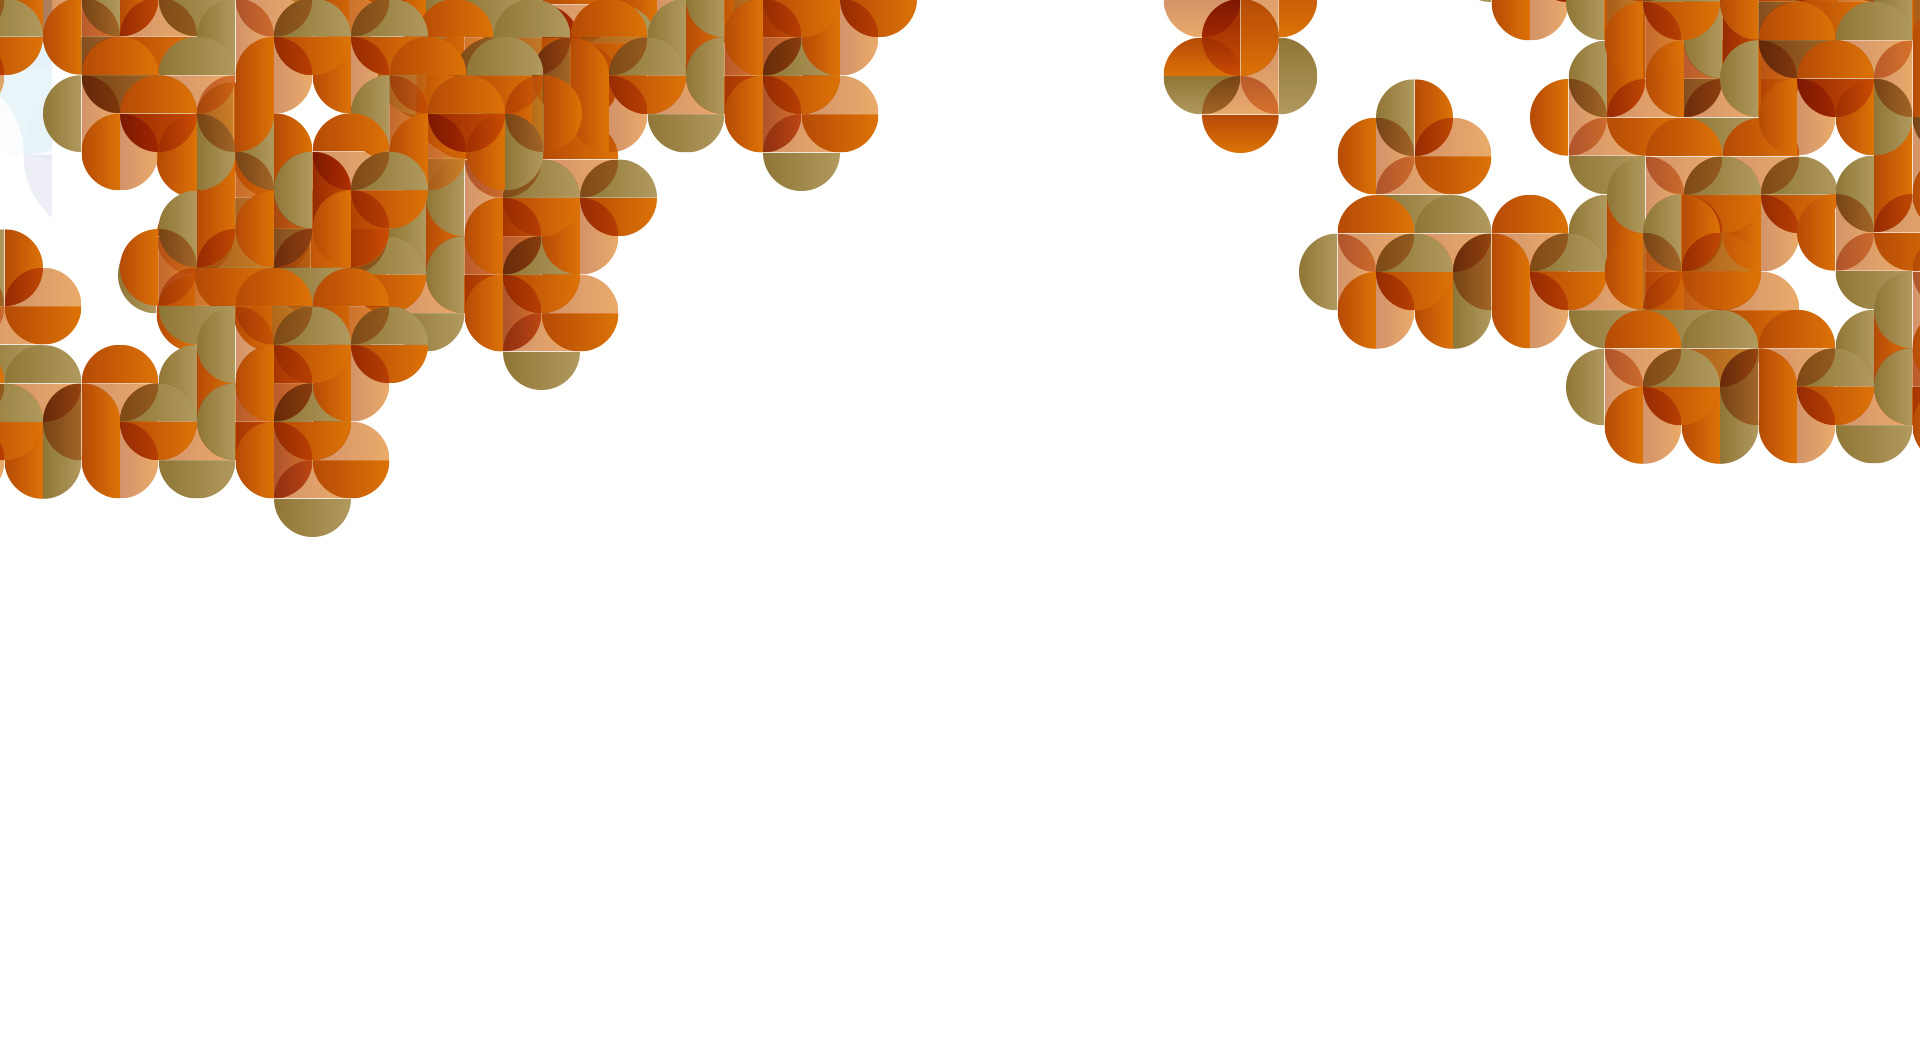
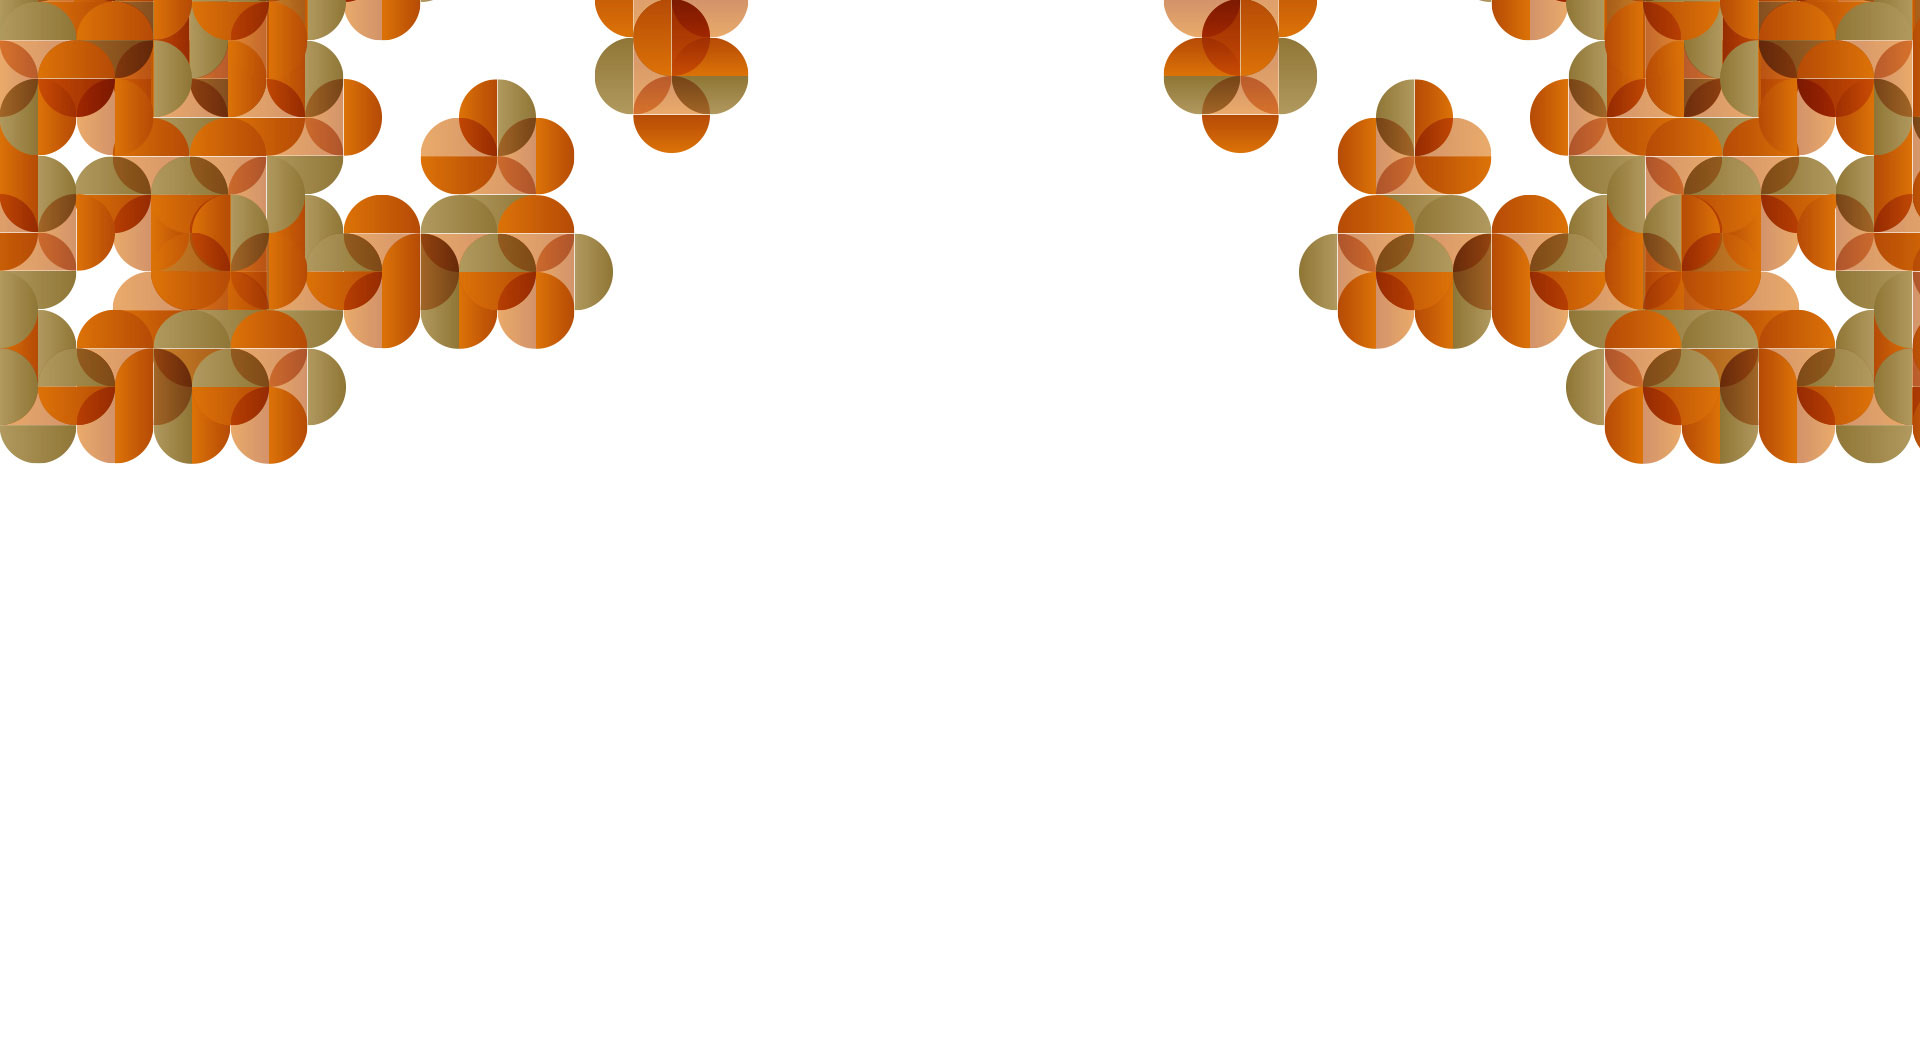
compilers bg and welcome article bg

Changed region(s): [[0.0, 0.0, 0.5, 0.5241]]

diff --git a/css/index.css b/css/index.css
@@ -322,7 +322,7 @@ margin-bottom: 0;
 
   .compilers {
     background: url("../img/compilers_bg.png")no-repeat;
-    background-size: 439px 725px;
+    background-size: 439px 100%;
     background-position: 17% 0px;
     border-bottom: solid 3px #cf4a0f;
   }
